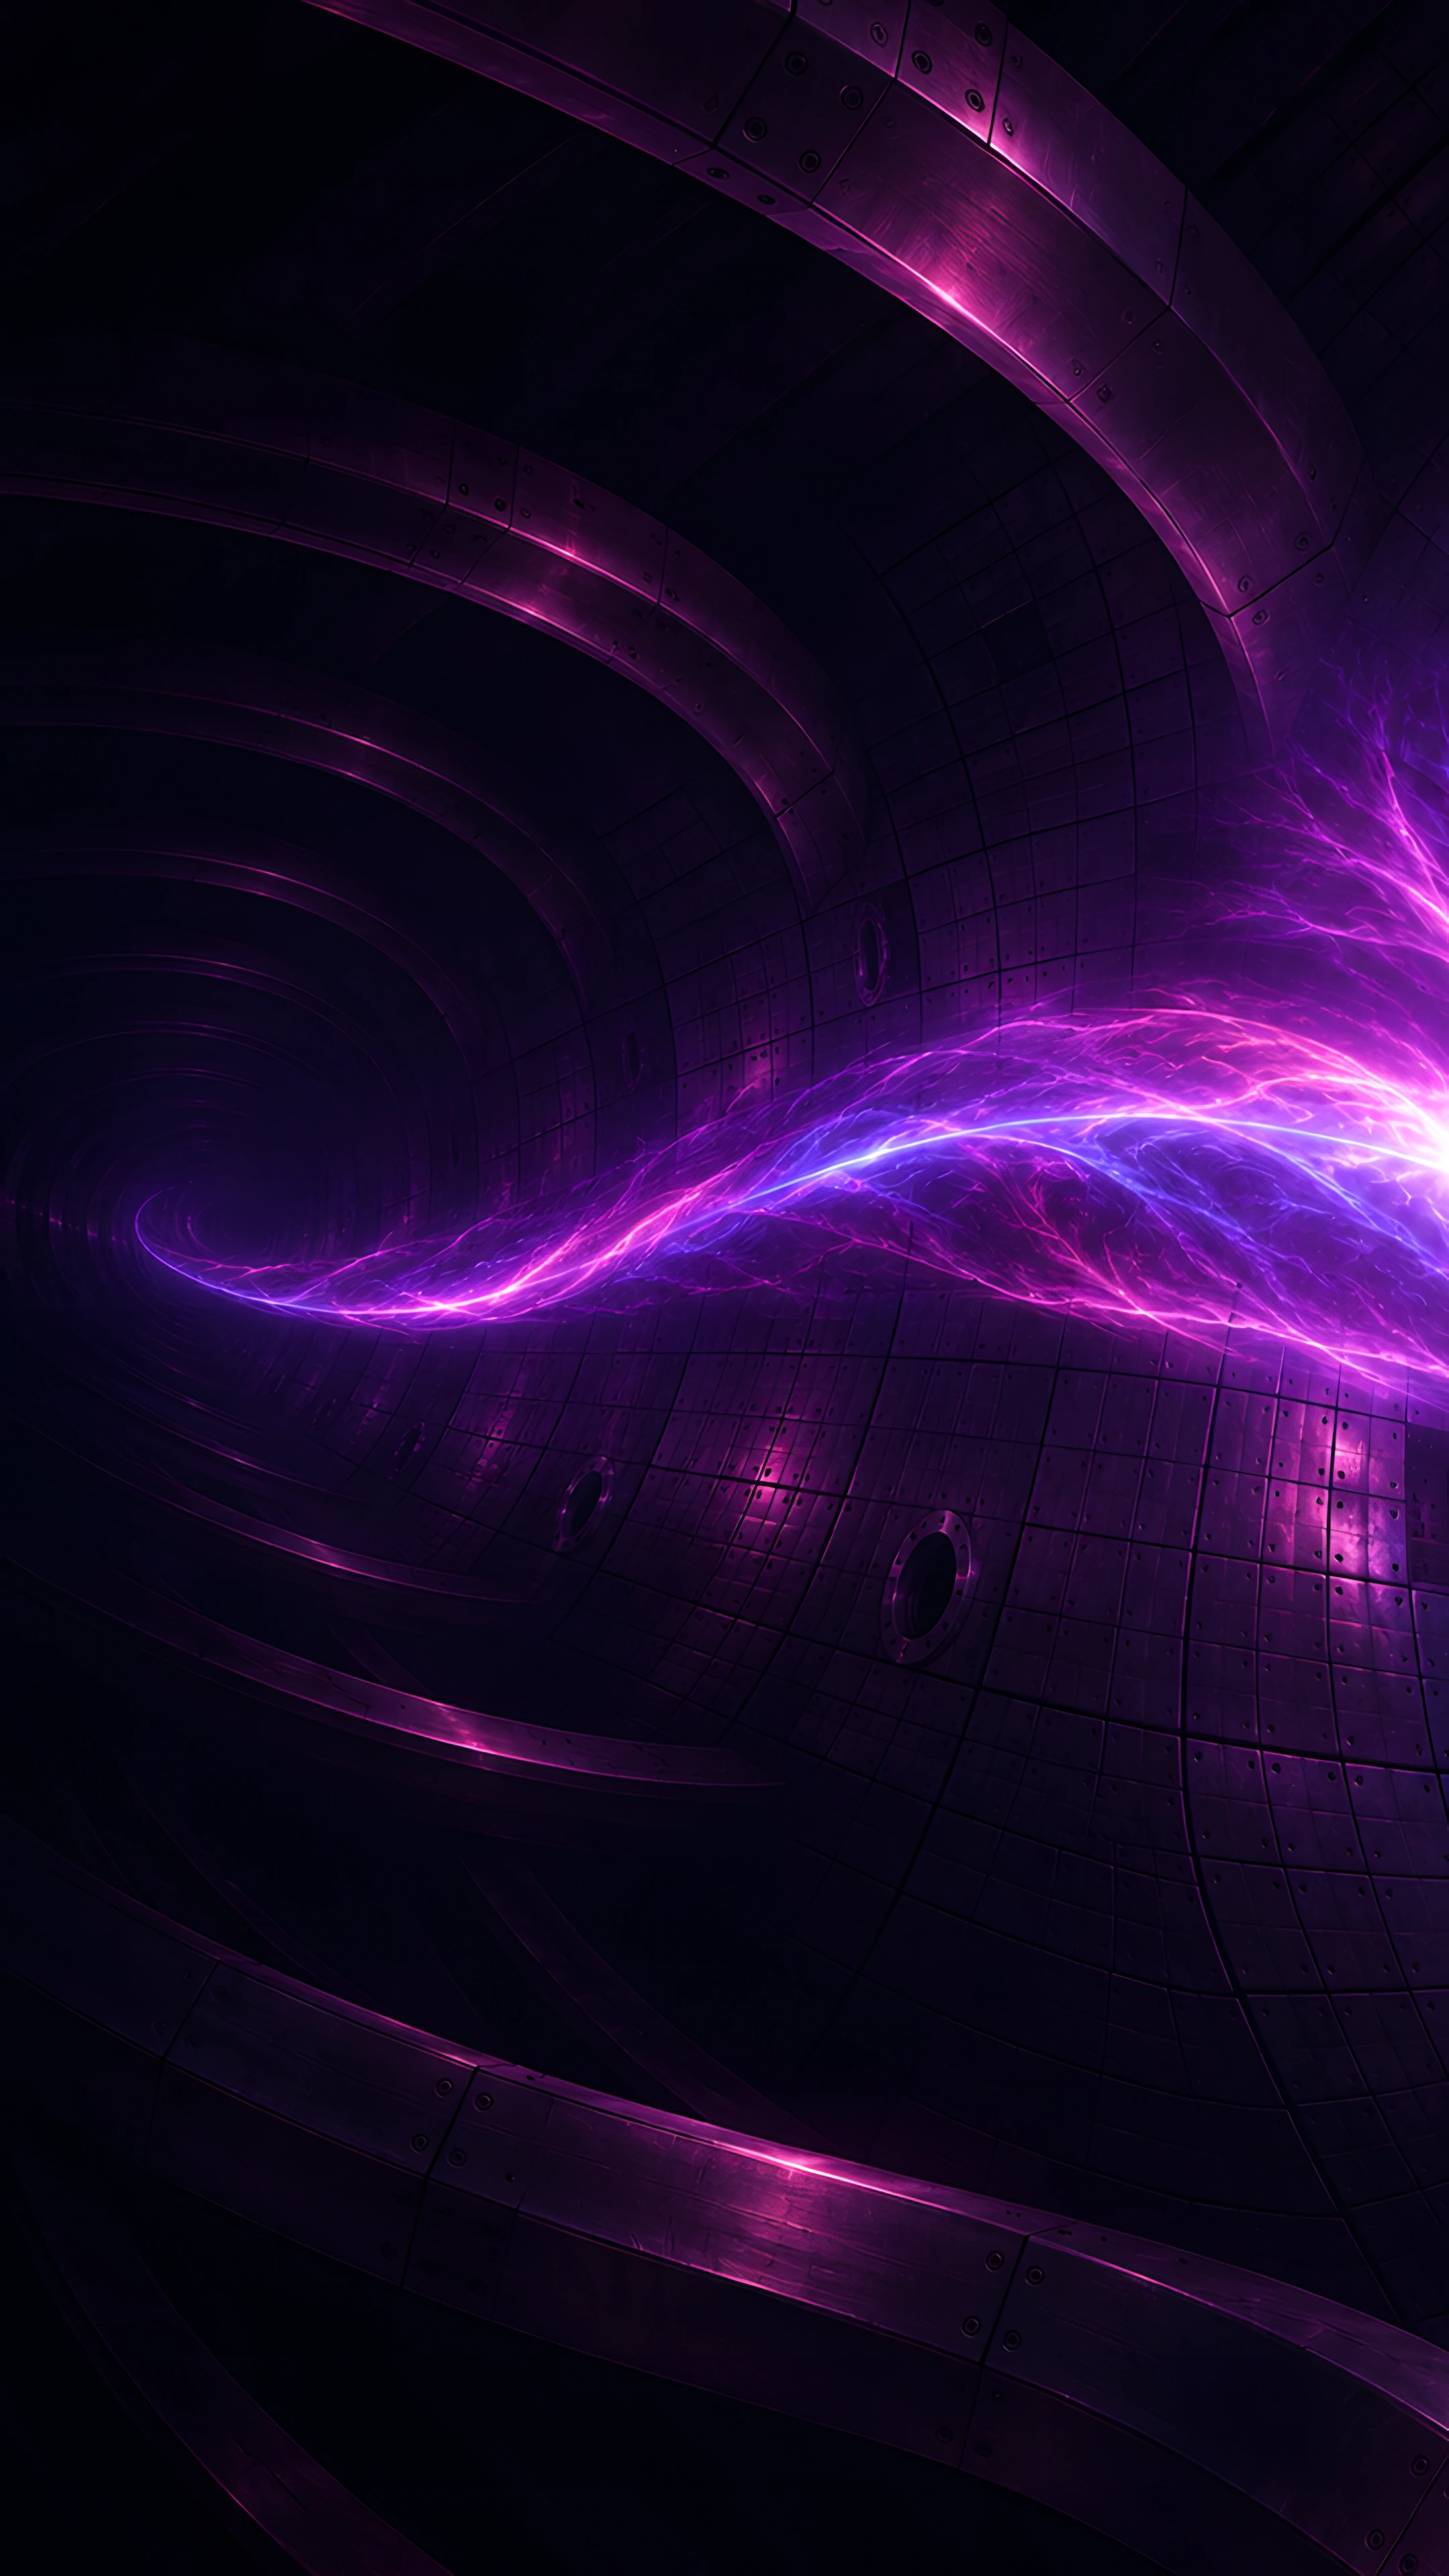
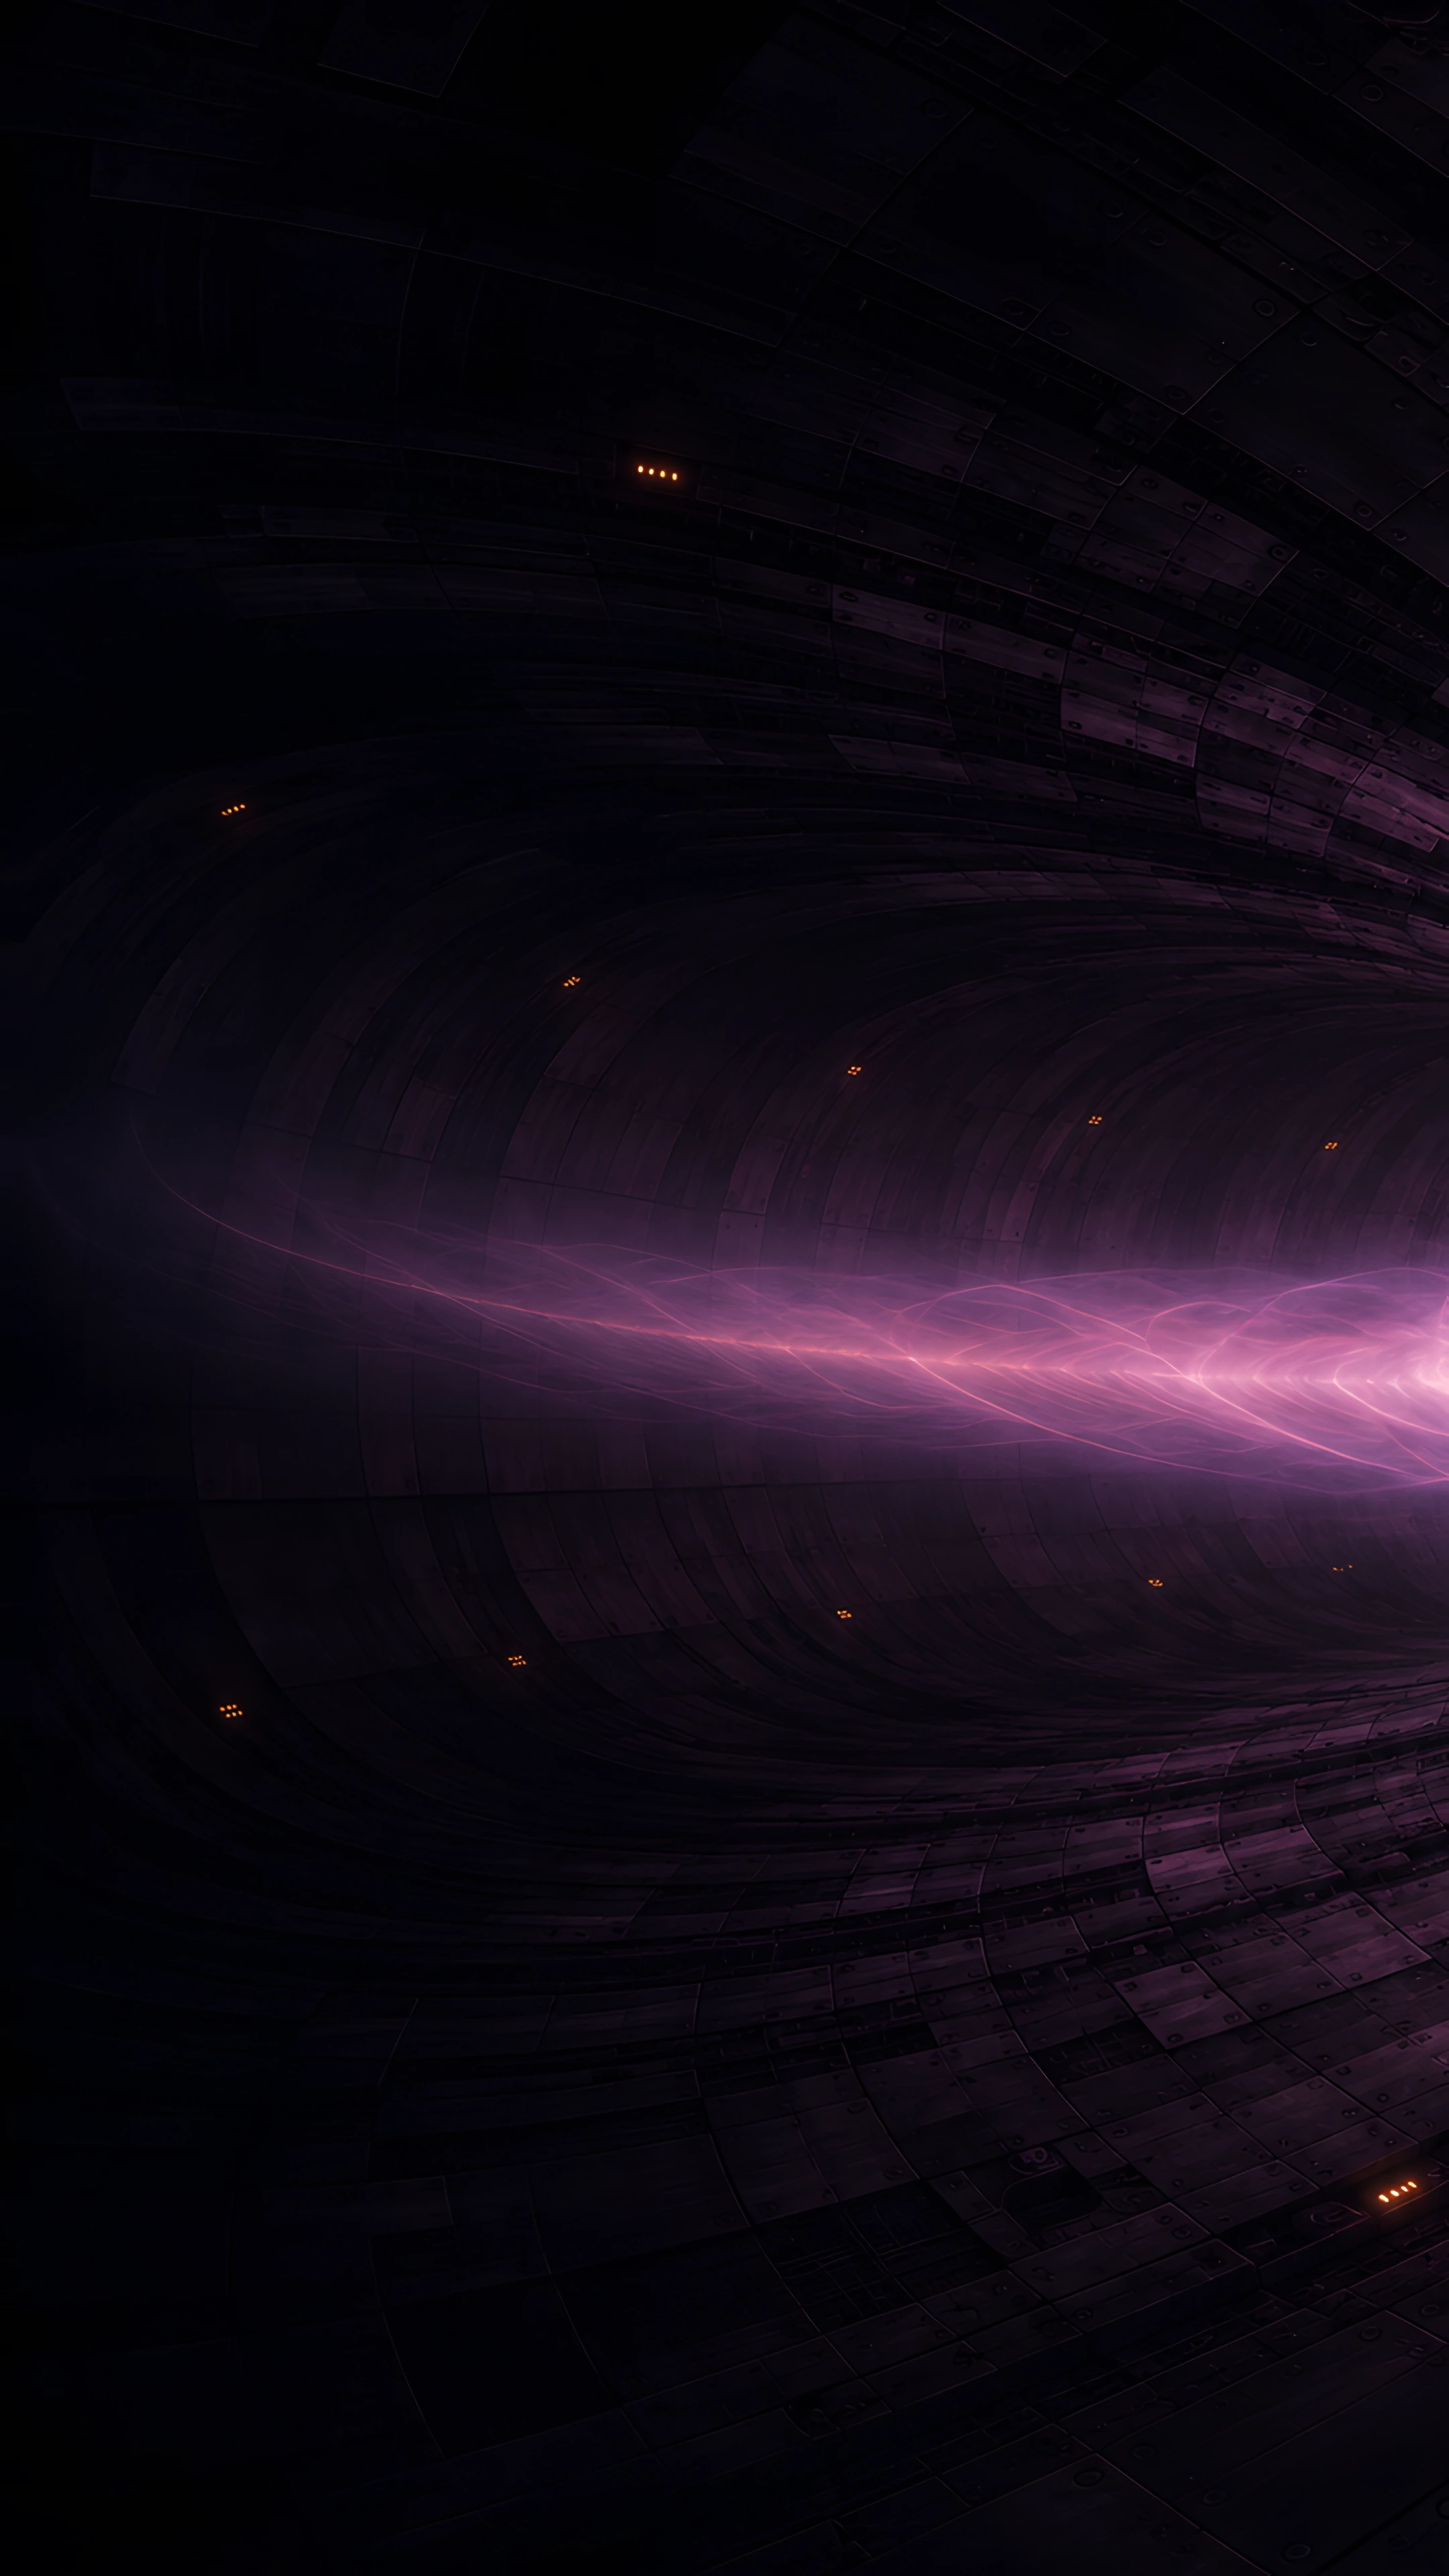
Redo Fusion from inside the reactor, composed for three screens
The first Fusion was a bright violet ribbon that read as lightning,
filled the frame and looked unlike the other eight. The new one stays
inside the reactor: dark tiled inner walls curving away on both sides
like an endless tunnel, and a broad band of rose and lavender hydrogen
plasma running straight across the middle, past both edges, so it
continues across all three screens. Codex accepted all three images on
the first attempt; GENERATION.md has the new prompts.

diff --git a/ASSETS.md b/ASSETS.md
@@ -7,7 +7,7 @@ The nine wallpapers are AI-generated, painted by the image tool built into OpenA
 | File | Idea |
 |---|---|
 | `01-gargantuan.webp` | A supermassive black hole seen almost edge-on: the far side of its accretion disk lensed over and under the shadow, the approaching side brighter |
-| `02-fusion.webp` | Inside a fusion reactor: a ribbon of violet plasma held in a slow helix by magnetic fields, lighting the tiled torus around it |
+| `02-fusion.webp` | Inside a fusion reactor: a broad band of hydrogen plasma floating through the tiled vacuum vessel, which curves away on both sides like an endless tunnel |
 | `03-core.webp` | A rocky planet with a wedge cut out, showing crust, mantle, molten outer core and a white-hot inner core |
 | `04-ocean.webp` | Thalassa, a planet covered by one ocean, seen from orbit at the terminator with spiral storms and a sun-glint path |
 | `05-elevator.webp` | Tether, a space elevator rising from an ocean world through the atmosphere at sunrise, a climber on the cable |
@@ -16,16 +16,16 @@ The nine wallpapers are AI-generated, painted by the image tool built into OpenA
 | `08-dyson.webp` | A Dyson sphere two-thirds built around a yellow-white star, light escaping through its gaps, a construction swarm in orbit |
 | `09-gate.webp` | A ring-shaped gate whose opening folds space into a tunnel toward a distant spiral galaxy, a small ship approaching |
 
-All nine are 3840 × 2160 WebP files at quality 92, like the WebP wallpapers of the built-in Omarchy themes, together 5.9 MB.
+All nine are 3840 × 2160 WebP files at quality 92, like the WebP wallpapers of the built-in Omarchy themes, together 5.7 MB.
 
 ## Span panels
 
-Every wallpaper has two panels in `backgrounds/spans/<name>/`: `left.webp` (2160 × 3840) for a portrait screen to its left and `right.webp` (3840 × 2160) for a 16:9 screen to its right, together 4.6 MB. They show the parts of one wider scene that lie beyond the wallpaper's edges.
+Every wallpaper has two panels in `backgrounds/spans/<name>/`: `left.webp` (2160 × 3840) for a portrait screen to its left and `right.webp` (3840 × 2160) for a 16:9 screen to its right, together 4.4 MB. They show the parts of one wider scene that lie beyond the wallpaper's edges.
 
 The generator returns at most 1672 × 941 and cannot paint the whole panorama, so the panels were painted outward from the wallpapers, as GENERATION.md describes: each canvas carried a strip from the edge of the wallpaper, and the tool painted the rest of the canvas around it. `tools/build.py` then made the panels:
 
-1. **Alignment.** The generator repaints the whole canvas, its copy of the strip included, and that copy can drift by a few pixels or change scale slightly. SIFT features in the strip are matched against the original strip and a similarity transform (shift, scale, rotation) fitted with RANSAC moves the painted panel back into register. Where the strip is too dark for features, the shift is found by phase correlation of the strip as a whole. The largest corrections were 59 px and a 12 % rescale (Fusion's right panel); most were under 5 px.
-2. **Brightness.** The brightness of the original and the painted strip is compared row by row in the 16 columns next to the seam, the part the eye compares across the bezel. If one gain, the same for all three channels so hues and black space are kept, brings them clearly closer, it is applied; it was for six of the eighteen panels, by 0.85 to 1.12.
+1. **Alignment.** The generator repaints the whole canvas, its copy of the strip included, and that copy can drift by a few pixels or change scale slightly. SIFT features in the strip are matched against the original strip and a similarity transform (shift, scale, rotation) fitted with RANSAC moves the painted panel back into register. Where the strip is too dark for features, the shift is found by phase correlation of the strip as a whole. The largest corrections were a 30 px shift (Giant's right panel) and a 1.7 % rescale (Tether's left panel); most were under 5 px.
+2. **Brightness.** The brightness of the original and the painted strip is compared row by row in the 16 columns next to the seam, the part the eye compares across the bezel. If one gain, the same for all three channels so hues and black space are kept, brings them clearly closer, it is applied; it was for five of the eighteen panels, by 0.85 to 1.12.
 3. **Cut.** Each panel is cut to exactly the area its screen covers in the layout (README.md), so the content at the panel's edge is what continues beyond the wallpaper's edge.
 
 The panels never contain the strip itself: the main screen shows the wallpaper, so whatever the generator did to its copy is cut away.
@@ -41,7 +41,7 @@ The generator returned the wallpapers at 1672 × 941. The shown part of each pan
 On a 16:9 screen every wallpaper is shown whole. Other shapes crop it:
 
 - **Gargantuan** keeps the shadow and photon ring in the middle; 21:9 trims the lensed arcs above and below, 16:10 and 3:2 trim the outer ends of the disk.
-- **Fusion** sweeps its plasma ribbon across the whole width; every crop keeps the ribbon's central curve.
+- **Fusion** runs its plasma band straight across the middle; every crop keeps it, and 21:9 trims the ports above and below.
 - **Core** puts the planet right of centre with dark space on the left; 3:2 cuts into the planet's lit limb on the right.
 - **Thalassa** fills the lower half with the ocean; 21:9 trims the sky, 3:2 trims the planet's curve at both sides.
 - **Tether** keeps the tether left of centre and the horizon across the middle; every crop keeps both.

diff --git a/GENERATION.md b/GENERATION.md
@@ -50,11 +50,13 @@ Attempts count every image generated for that file, including those rejected by 
 
 ### 02 Fusion
 
-**Wallpaper** (2 attempts; the second gave the plasma a clearer path around the torus): A star in a bottle. The inside of a colossal fusion reactor: the camera floats within a vast doughnut-shaped vacuum chamber whose curved walls, lined with dark heat-shield tiles and ports, arc away in both directions into darkness. Through it runs a ring of plasma, a slender luminous ribbon of violet, magenta and blue-white fire at a hundred million degrees, twisted into a slow helix by invisible magnetic fields and suspended without touching anything. Its glow is the only light: it rakes across the tiled walls and the edges of gigantic superconducting coils that wrap the torus like ribs. The ribbon enters from one side, sweeps across the frame in a long curve and recedes around the torus, so the eye follows it into the distance. Mostly darkness and dim steel; the light is magenta, violet and white-hot blue.
+This is the second version. The first showed a bright violet ribbon that read as lightning, filled the frame and looked unlike the other eight; it was redone from the inside of the reactor, composed as one broad scene for three screens. Its prompts are in this file's history.
 
-**Left note** (rev. 1, 1 attempt): the curved chamber wall and its rib-like magnet coils arching up overhead and down below, the plasma's violet glow fading on the tiles toward the outer edge
+**Wallpaper** (1 attempt): A star in a bottle, seen from inside. The inner chamber of a colossal fusion reactor, as if photographed by a camera inside a real tokamak: its doughnut-shaped vacuum vessel is lined with thousands of dark graphite and tungsten armour tiles, bolted panels and round diagnostic ports, and its inner walls curve away to the left and to the right, so the chamber reads as an endless arched tunnel bending out of sight on both sides. Through the middle of the tunnel floats the plasma: a broad, softly glowing band of hydrogen plasma at a hundred million degrees, suspended in vacuum without touching anything, pale rose and lavender at its translucent edges and white-hot at its dense core, with fine filaments twisted along the magnetic field lines. The band runs horizontally across the whole width of the frame, a little below the middle, and continues past both edges, following the curve of the vessel. Its glow is the only light: it catches the edges of the tiles in pale rose and violet and falls away into deep shadow on the upper and lower walls, where a few tiny amber indicator lights glow. The plasma is luminous gas, never lightning, sparks or electric arcs. Wide, calm and enormous, mostly dark steel and shadow.
 
-**Right note** (1 attempt): the plasma ribbon continuing its sweep and receding around the curve of the torus to a faint glowing vanishing point, the coils repeating into darkness
+**Left note** (rev. 2, 1 attempt): the plasma band continues from the strip, curving away along the vessel into the depth of the tunnel and growing fainter, and there is no second band; the tiled inner wall continues to the left and arches up overhead and down below like the inside of a vast tube, its tiles and ports lit at their edges by the plasma near the middle and falling into deep shadow toward the top and bottom of the panel
+
+**Right note** (1 attempt): the plasma band continues from the strip, following the curve of the vessel and receding into the depth of the tunnel to a soft glowing vanishing point; the tiled inner wall continues around it above and below, fading into darkness
 
 ### 03 Core
 

diff --git a/README.md b/README.md
@@ -52,8 +52,8 @@ Nine scenes, the theme's namesake first and then a climb up the Kardashev scale,
 
 | Gargantuan | Fusion |
 | --- | --- |
-| [![Gargantuan: a supermassive black hole with a lensed accretion disk](backgrounds/01-gargantuan.webp)](backgrounds/01-gargantuan.webp) | [![Fusion: a ribbon of violet plasma inside a fusion reactor](backgrounds/02-fusion.webp)](backgrounds/02-fusion.webp) |
-| A supermassive black hole. Gravity bends the far side of its disk over and under the shadow, and the side rushing toward you burns brighter. | A star in a bottle: a ribbon of violet plasma held by magnetic fields inside the torus of a fusion reactor. |
+| [![Gargantuan: a supermassive black hole with a lensed accretion disk](backgrounds/01-gargantuan.webp)](backgrounds/01-gargantuan.webp) | [![Fusion: a band of glowing plasma floating through the tiled tunnel of a fusion reactor](backgrounds/02-fusion.webp)](backgrounds/02-fusion.webp) |
+| A supermassive black hole. Gravity bends the far side of its disk over and under the shadow, and the side rushing toward you burns brighter. | A star in a bottle: a band of hydrogen plasma floating through the inside of a fusion reactor, whose tiled walls curve away like an endless tunnel. |
 
 | Core | Thalassa |
 | --- | --- |
